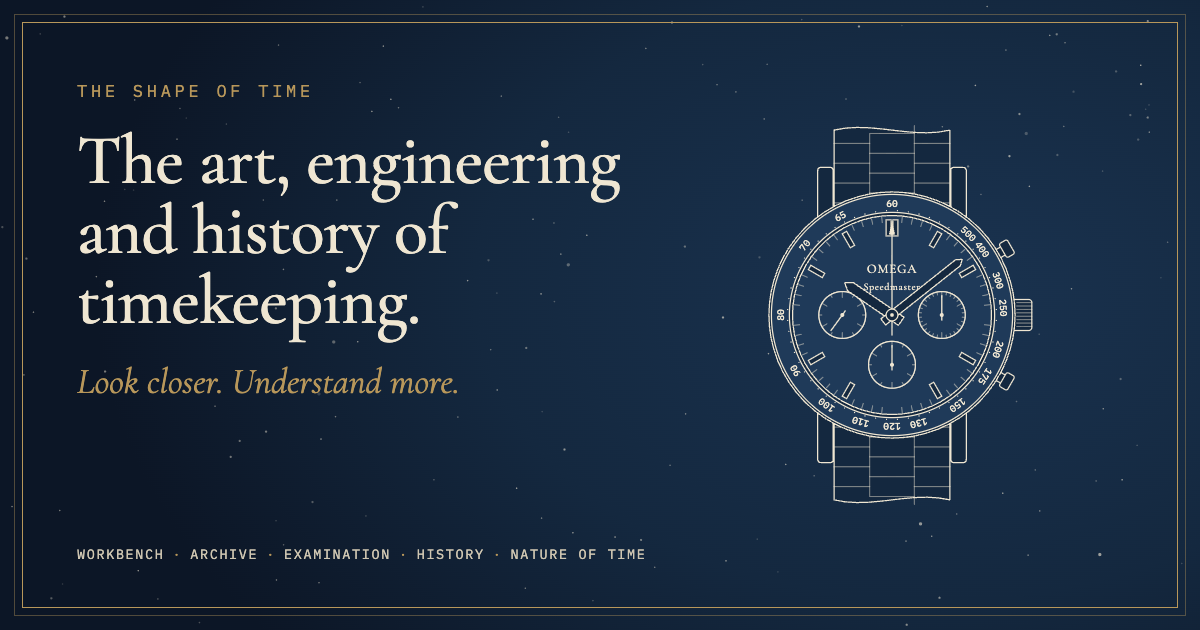
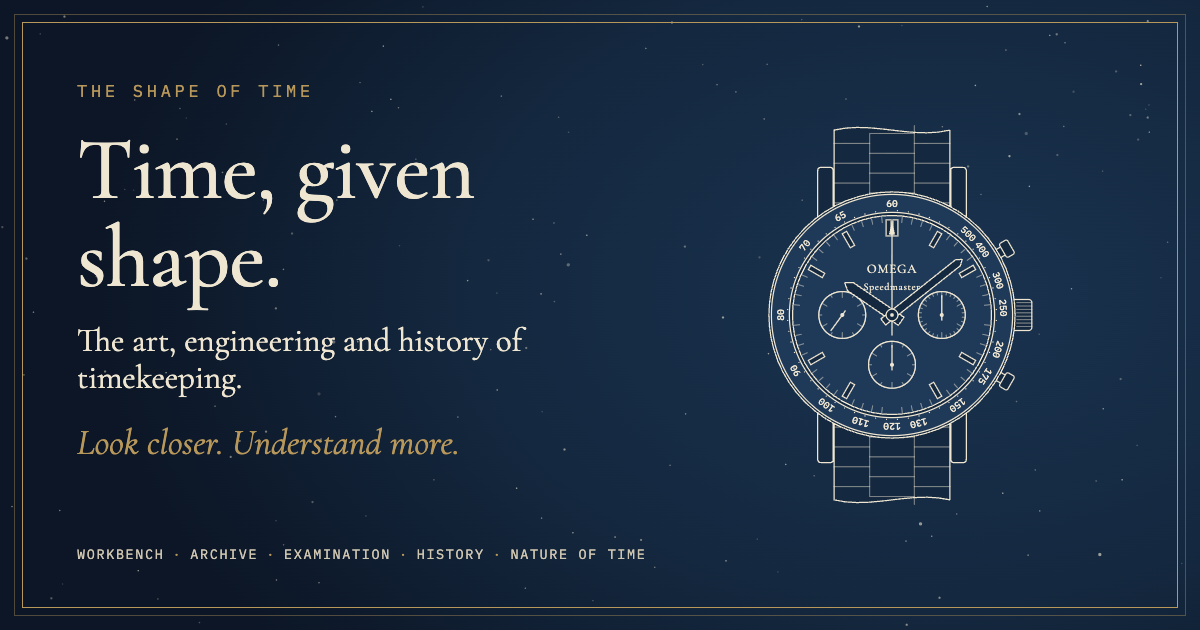
Homepage headline: Time, given shape.

Changed region(s): [[0.0617, 0.2111, 0.5242, 0.6333], [0.0617, 0.6937, 0.4008, 0.7238]]

diff --git a/og-image-source.html b/og-image-source.html
@@ -19,6 +19,8 @@
   .words { padding: 56px 0 0 54px; display: flex; flex-direction: column; }
   .words .eb { font-family: var(--mono); font-size: 17px; letter-spacing: .22em; text-transform: uppercase; color: #b8975a; }
   .words h1 { margin: 22px 0 0; font-family: var(--serif); font-weight: 500; font-size: 70px; line-height: 1.0; letter-spacing: -.01em; color: #efe6d2; }
+  .words h1 { font-size: 88px !important; }
+  .words .sub { margin-top: 20px; font-family: var(--serif); font-size: 33px; line-height: 1.14; color: #efe6d2; max-width: 480px; }
   .words p { margin: 26px 0 0; font-family: var(--serif); font-style: italic; font-size: 36px; line-height: 1.1; color: #b8975a; }
   .words .ft { margin-top: auto; padding-bottom: 42px; font-family: var(--mono); font-size: 13.5px; letter-spacing: .12em; text-transform: uppercase; color: #cfc6b1; white-space: nowrap; }
   .words .ft span { color: #b8975a; margin: 0 8px; }
@@ -32,7 +34,8 @@
 <div class="card-og">
   <div class="words">
     <div class="eb">The Shape of Time</div>
-    <h1>The art, engineering and history of timekeeping.</h1>
+    <h1>Time, given shape.</h1>
+    <div class="sub">The art, engineering and history of timekeeping.</div>
     <p>Look closer. Understand more.</p>
     <div class="ft">Workbench<span>·</span>Archive<span>·</span>Examination<span>·</span>History<span>·</span>Nature of Time</div>
   </div>

diff --git a/styles.css b/styles.css
@@ -469,3 +469,7 @@ figcaption { font-size: 17px; } figcaption b { font-size: 12px; }
 .h-stars { position: absolute !important; top: 0; left: calc(50% - 50vw); width: 100vw; height: 100%; fill: #efe6d2; pointer-events: none; }
 .h-time-pre { margin-top: 14px; font-family: var(--serif); font-size: clamp(22px, 2.3vw, 32px) !important; line-height: 1.1 !important; color: #cfc6b1; max-width: none !important; }
 .h-time-txt h2 { font-style: italic; font-size: clamp(42px, 5.6vw, 84px); line-height: 1; margin: 6px 0 20px; }
+
+/* homepage headline echoes the site's name; the old headline sits beneath it as a subtitle */
+.h-hero h1 { font-size: clamp(48px, 6.6vw, 98px); line-height: 1; margin-bottom: 16px; }
+.h-words > p.h-sub { font-family: var(--serif); font-size: clamp(24px, 2.5vw, 34px) !important; line-height: 1.15 !important; color: var(--cream) !important; max-width: 22em !important; margin-bottom: 18px; text-wrap: balance; }

diff --git a/index.html b/index.html
@@ -16,7 +16,7 @@
 <meta property="og:image" content="https://horology-production.up.railway.app/og-image.png">
 <meta property="og:image:width" content="1200">
 <meta property="og:image:height" content="630">
-<meta property="og:image:alt" content="An Omega Speedmaster drawn in cream line on a starry navy ground, beside the words: The art, engineering and history of timekeeping.">
+<meta property="og:image:alt" content="An Omega Speedmaster drawn in cream line on a starry navy ground, beside the words: Time, given shape. The art, engineering and history of timekeeping.">
 <meta name="twitter:card" content="summary_large_image">
 <meta name="twitter:title" content="The Shape of Time">
 <meta name="twitter:description" content="Twenty vintage watches, drawn as engineering plates. Each one keeps your time. Can you name them?">

diff --git a/app.js b/app.js
@@ -198,7 +198,8 @@ function renderHome() {
 <section class="home">
   <div class="h-hero">
     <div class="h-words">
-      <h1>The art, engineering and history of timekeeping.</h1>
+      <h1>Time, given shape.</h1>
+      <p class="h-sub">The art, engineering and history of timekeeping.</p>
       <p>Twenty vintage watches, drawn as engineering plates. Each one keeps your time.</p>
       <p class="h-motto">Look closer. Understand more.</p>
       <a class="h-btn" href="#/archive">Explore the archive</a>
